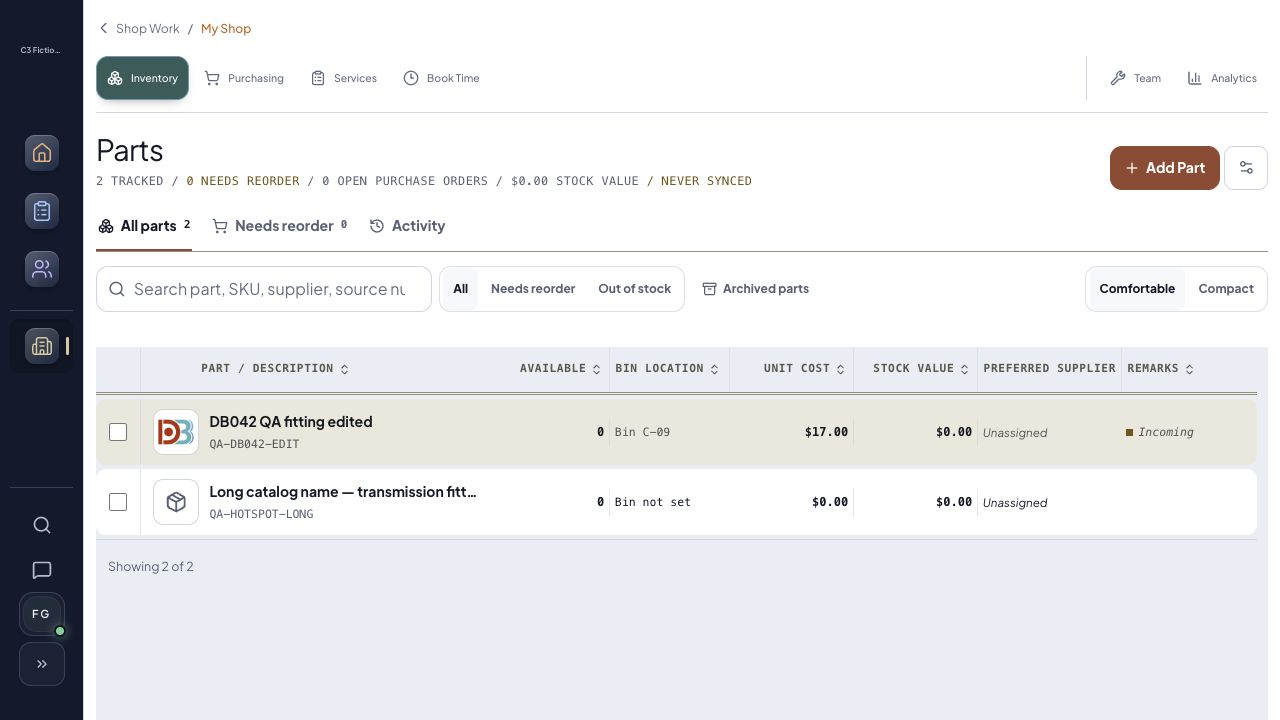
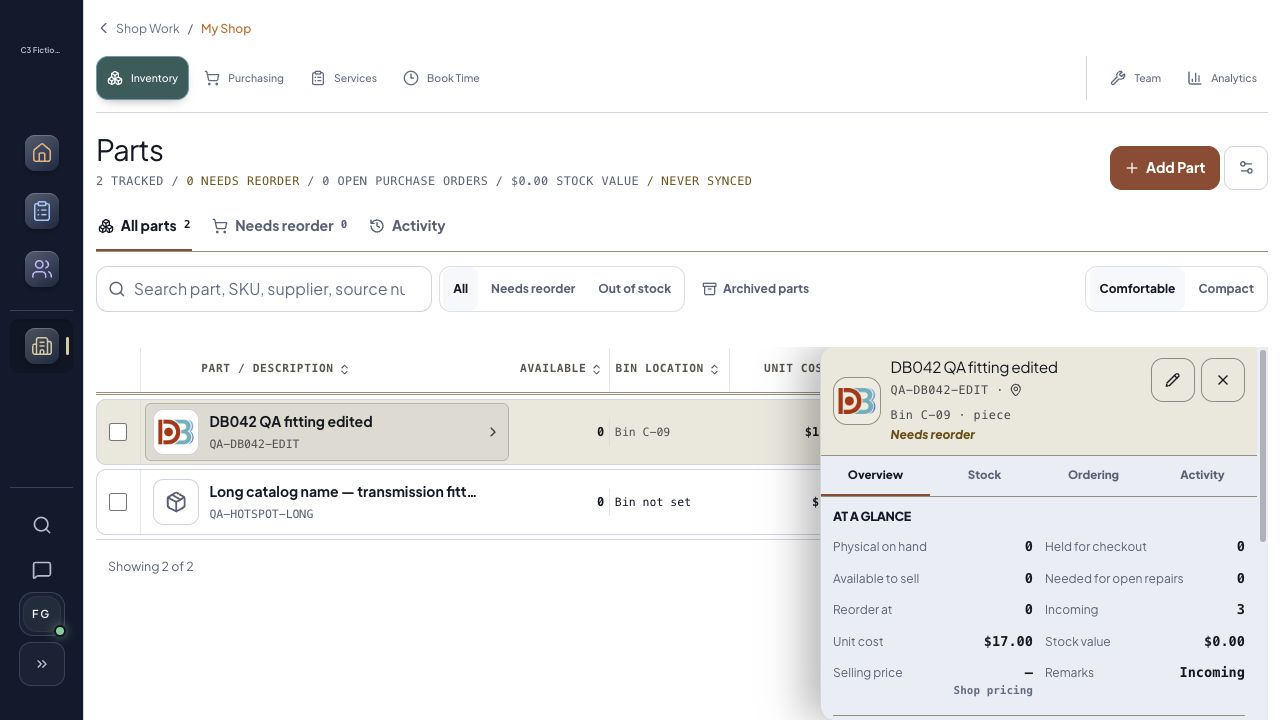
fix(inventory): keep only inspector gray and outline list items

diff --git a/frontend/src/index.css b/frontend/src/index.css
@@ -7497,7 +7497,8 @@ html.customer-portal-active {
 /* Sticky column labels cover inline photos (2) and row actions (4);
    floating menus retain their existing layer (9). */
 .db-parts-workbench__table-head { z-index:5; }
-/* Keep the surrounding Parts page light while the working list retains its
-   gray canvas and distinct rounded records. Scope this to Parts only. */
+/* Keep the Parts page and ledger continuous; the selected-part inspector
+   retains its existing gray canvas and selected header treatment. */
 .db-presentation-new .db-staff-main:has(.db-parts-workbench) { background:var(--surface-overlay); }
-.db-presentation-new :is(.db-parts-workbench__body,.db-parts-workbench__ledger-workspace,.db-parts-workbench__ledger,.db-parts-workbench__rows,.db-parts-workbench__table-head,.db-parts-workbench__load-more) { background:var(--surface-canvas); }
+.db-presentation-new :is(.db-parts-workbench__body,.db-parts-workbench__ledger-workspace,.db-parts-workbench__ledger,.db-parts-workbench__rows,.db-parts-workbench__table-head,.db-parts-workbench__load-more) { background:var(--surface-overlay); }
+.db-presentation-new .db-parts-workbench__row { outline:1px solid var(--workspace-border); outline-offset:-1px; }

diff --git a/docs/verification/DB042_LIST_SURFACE_2026-10-31.md b/docs/verification/DB042_LIST_SURFACE_2026-10-31.md
@@ -1,23 +1,11 @@
-# DB-042 — coherent inventory list surfaces with rounded row edges
+# DB-042 — white Parts page, gray inspector, bordered rows
 
-Owner Frontend & UX, Fast UI. Branch `codex/inventory-continuous-surface` frome749b452. User asks to remove the patchwork between white rows and blue-gray gaps/side padding, then clarifies that rounded row edges must remain visible and the header corner must match.
+Owner Frontend & UX; Fast UI; branch codex/inventory-continuous-surface from e749b452. Final user direction supersedes earlier surface experiments: white surrounding page AND full ledger/header/gaps/gutters/footer; only the selected-part inspector retains its gray canvas and beige selected header. Every list item has a thin rounded border.
 
-## Final implementation and acceptance
+Implementation uses existing surface-overlay on the Parts main canvas and ledger backings, preserving the inspector surface-canvas. A 1px inset workspace-border outline follows each existing 10px row radius without geometry shift. Selected beige and hover/focus styles remain. No API, tenant, data, dependency, migration or payment changes. Other routes untouched.
 
-Use the existing surface-overlay token on the Parts body, ledger workspace/scroller, row backing, sticky header and list footer. Add a1px inset outline in workspace-border to the existing10px rounded rows. This paints the rounded boundary without changing row geometry or introducing another fill between records. Selected/hover/focus styling remains; other workspaces are untouched. No API, data, permission, dependency, migration or financial behavior changes.
+Signed-in final desktop/390px QA: page/list/header/footer rgb(255,255,255); inspector rgb(232,237,244); row outline 1px, radius10px; no page horizontal overflow. Existing selection, photo-preview/Escape, sticky-header overlap journeys passed during this CSS-only refinement. Temporary device overrides cleared. Fictional-data screenshots: [desktop](db042-list-surface/desktop.png), [mobile](db042-list-surface/mobile.png).
 
-Before: ledger/workspace rgb(232,237,244), resting row rgb(255,255,255), footer rgb(246,248,251). After: body, workspace, ledger, rows backing, header and footer all rgb(255,255,255); resting rows match, with outline1px and radius10px. Selected row remains rgb(236,231,220). Existing theme tokens retain theme support without hardcoded white.
+61/61 focused inventory/Activity tests passed. Changed-source lint and production build passed before the last color/outline-only refinement; final build and updated-head protected CI pending. Mechanical detector reports only pre-existing findings. PR #726 remains held until final gates pass.
 
-Signed-in real desktop/mobile QA confirms matching surfaces, visible rounded outlines, retained selection, preview opening/Escape closing, and no390px page overflow. At1920×520 and scrollTop65px, sticky header still covers thumbnail (hit test returns header). Native coarse pointer behavior remains. All temporary per-tab emulation cleared. Screenshots use fictional data: [desktop](db042-list-surface/desktop.png), [mobile](db042-list-surface/mobile.png).
-
-61/61 focused inventory/Activity tests pass. CSS-only change: changed-source lint/build/diff checks used; no implementation-mirroring CSS unit test added. Mechanical detector findings are confined to pre-existing CSS, outside these rules. Protected CI/merge/deployment/live acceptance pending; item Review.
-
-## Runtime receipt
-
-2026-10-31: Vite5198 PID26431 cwd this checkout/frontend; API8014 `dieselbridge_api_inventory-surface` binds this checkout/backend. Existing fictional truckpitstop_db042_qa, Redis12, schema196_historical_owner_self_review verified before startup; upgrade no-op. Direct/proxied readiness passes. Prior owned PID96068/API source-checked and gracefully replaced; shared5173/8000/8018 sessions preserved. Branch/base above, changed source browser-verified. http://127.0.0.1:5198/dashboard/garage/inventory aligned and browser-verified. No production record writes.
-
-## Superseding user direction — white surrounding page, gray Parts section
-
-User rejected the continuous white list and added row outlines. Final implementation replaces that treatment: the Parts route main canvas uses surface-overlay (white in Day), while body/list/header/gutters/footer use surface-canvas (rgb(232,237,244) in Day). Existing rounded white records and beige selection remain; no added row outlines. Other routes remain untouched.
-
-Updated signed-in desktop and390px QA confirms white page, gray ledger/header/footer, retained rounded rows and selection, no page horizontal overflow. Screenshots above replaced with this final direction. Prior preview/Escape/sticky-header journey remains applicable because only background paint changed. Updated-head lint/build and protected CI required before release. PR #726 held during revision.
+Runtime: Vite5198 PID26431 cwd this checkout/frontend; API8014 dieselbridge_api_inventory-surface binds this checkout/backend. Existing fictional truckpitstop_db042_qa, Redis12, schema196_historical_owner_self_review verified before startup; migration upgrade no-op. Direct/proxied readiness passes. Prior owned runtime gracefully replaced, shared5173/8000/8018 untouched. Source and rendered CSS verified. No production record writes.

diff --git a/docs/PROJECT_BOARD.md b/docs/PROJECT_BOARD.md
@@ -1,3 +1,7 @@
+> **DB-042 Row borders / IN PROGRESS (2026-10-31), Frontend & UX:** Final user acceptance: white surrounding page and full list, gray selected-part inspector, thin rounded border on every list item. Use inset outline with no geometry shift; retain selected/hover/keyboard states. Final QA/CI pending on updated PR #726.
+
+> **DB-042 Final surface clarification / IN PROGRESS (2026-10-31), Frontend & UX:** Only selected-part inspector stays gray. Surrounding page AND list/header/gaps/gutters/footer white; preserve selected beige and hover/focus. Supersedes gray-list interpretation; PR #726 held for final QA and exact-head CI.
+
 > **DB-042 Surface direction revised / IN PROGRESS (2026-10-31), Frontend & UX:** User requests white surrounding page with gray Parts working section retained. Hold PR #726 merge; replace continuous white list/row outlines with white Parts page canvas and gray list/header/footer backing, retaining existing rounded white records and selected/hover states. Recheck desktop/narrow appearance and updated-head CI.
 
 > **DB-042 Coherent inventory surface/rounded edges / LOCAL QA PASSED, REVIEW (2026-10-31), Frontend & UX:** One themed light backing through body/header/ledger/gaps/gutter/footer, with1px inset outlines preserving10px row corners. Matching white surface values verified; selected beige retained.61 focused tests, signed-in desktop/390px preview/selection/no-overflow and sticky-header scroll test pass. [Receipt](verification/DB042_LIST_SURFACE_2026-10-31.md). CSS-only; protected CI/release pending.
